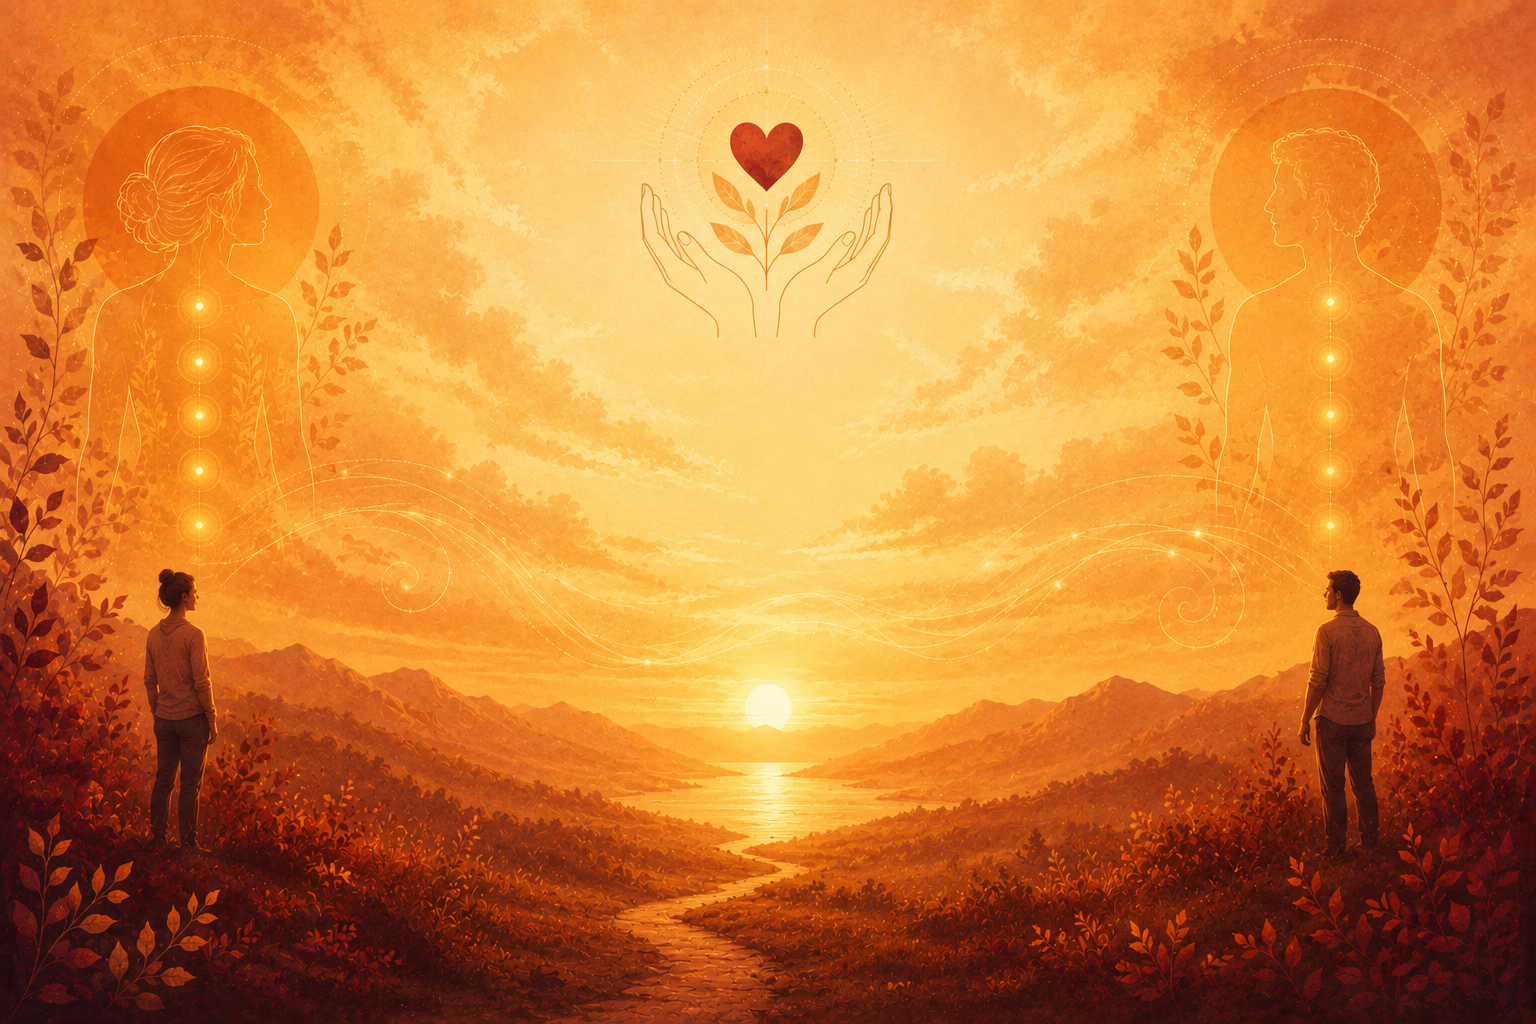
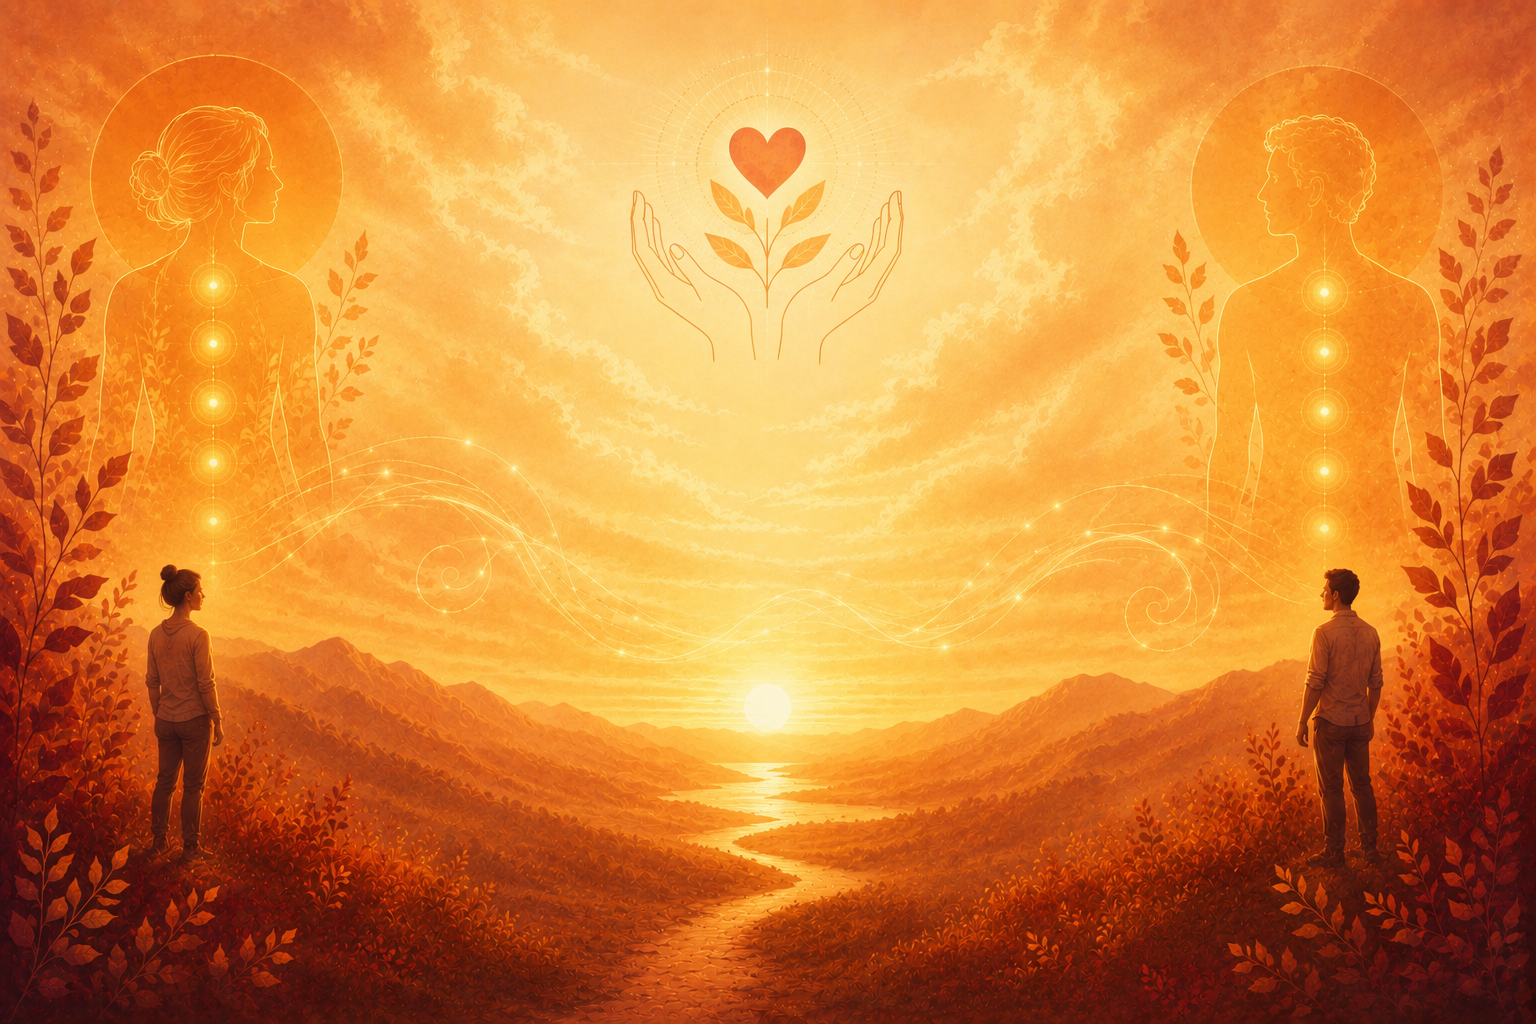
Add files via upload

diff --git a/index.html b/index.html
@@ -16,6 +16,7 @@
     --accent-hover:#b9103f;
     --accent-deep: #5a0820;
     --coral:       #c95d43;
+    --coral-light: #d4724a;
     --peach:       #f5c98a;
     --peach-light: #fde8c0;
     --text-dark:   #4a1520;
@@ -84,7 +85,6 @@
   }
   .hero-content { position: relative; z-index: 2; max-width: 920px; margin: 0 auto; }
 
-  /* "You want more" — medium size */
   .hero-title {
     font-family: var(--serif); font-weight: 700;
     font-size: clamp(2.4rem, 4.5vw, 4.2rem);
@@ -93,33 +93,31 @@
   }
   .hero-title em { font-style: italic; color: var(--accent); }
 
-  /* Desires — 3 lines, slightly smaller, accent color */
   .hero-desires {
     font-family: var(--serif); font-style: italic; font-weight: 700;
     font-size: clamp(1rem, 1.55vw, 1.35rem);
     color: var(--accent);
-    line-height: 1.65; margin-bottom: 1.2rem;
+    line-height: 1.65; margin-bottom: 1.4rem;
     max-width: 860px; margin-left: auto; margin-right: auto;
   }
 
-  /* "& you can have it all" — BIG, matches desires width */
+  /* 2 points smaller than hero-title */
   .hero-haveitall {
     font-family: var(--serif); font-weight: 700;
-    font-size: clamp(2.4rem, 4.5vw, 4.2rem);
+    font-size: clamp(2rem, 3.8vw, 3.6rem);
     color: var(--accent-deep); line-height: 1.1;
-    margin-bottom: 0.5rem;
+    margin-bottom: 0.6rem;
   }
 
-  /* "because you are an Intimacy Artist!" — single line, two colors */
+  /* 3 points bigger than before, all coral */
   .hero-artist-line {
     font-family: var(--serif); font-weight: 700;
-    font-size: clamp(1.4rem, 2.5vw, 2.2rem);
-    line-height: 1.2; margin-bottom: 0.8rem;
+    font-size: clamp(1.7rem, 3vw, 2.8rem);
+    color: var(--coral);
+    line-height: 1.2; margin-bottom: 1rem;
   }
-  .hero-artist-because { color: var(--accent-deep); font-style: italic; font-weight: 400; }
-  .hero-artist-name { color: var(--coral); }
+  .hero-artist-line em { font-style: italic; font-weight: 400; }
 
-  /* "Ready to make your life..." */
   .hero-ready {
     font-family: var(--serif); font-style: italic; font-weight: 700;
     font-size: clamp(1rem, 1.6vw, 1.3rem);
@@ -136,7 +134,7 @@
   .marilys-text h2 {
     font-family: var(--serif); font-weight: 700; font-style: italic;
     font-size: clamp(2rem, 3.5vw, 3rem);
-    color: var(--accent-deep); margin-bottom: 0.8rem;
+    color: var(--accent-deep); margin-bottom: 1.2rem;
   }
   .marilys-role-1 {
     font-family: var(--serif); font-weight: 700;
@@ -146,11 +144,11 @@
   .marilys-role-2 {
     font-family: var(--serif); font-weight: 400;
     font-size: clamp(1.1rem, 2vw, 1.45rem);
-    color: var(--accent); line-height: 1.3; margin-bottom: 1.2rem;
+    color: var(--accent); line-height: 1.3; margin-bottom: 1.5rem;
   }
   .marilys-look {
     font-family: var(--serif); font-style: italic; font-weight: 700;
-    font-size: 1.1rem; color: var(--accent-deep); margin-bottom: 1.8rem;
+    font-size: 1.15rem; color: var(--accent-deep); margin-bottom: 1.8rem;
   }
   .marilys-photo {
     flex-shrink: 0; width: 420px; height: 420px;
@@ -201,8 +199,10 @@
   }
   .approach-block p .key {
     font-family: var(--serif); font-weight: 700; font-size: 1.15rem;
-    color: var(--accent-deep);
+    color: var(--coral);
   }
+  /* bold words in approach paragraphs */
+  .approach-block p strong { color: var(--coral); font-weight: 700; }
   .approach-divider {
     border: none; border-top: 1px solid rgba(138,12,47,0.25);
     margin: 2rem auto; max-width: 500px;
@@ -224,13 +224,13 @@
   }
   .specialize ul li {
     font-family: var(--sans); font-size: 1rem;
-    color: var(--text-mid); margin-bottom: 0.5rem;
+    color: var(--coral); margin-bottom: 0.5rem;
     line-height: 1.4;
   }
-  .specialize ul li strong { color: var(--accent-deep); font-weight: 600; }
+  .specialize ul li strong { color: var(--coral); font-weight: 600; }
   .specialize-cta {
     font-family: var(--serif); font-size: clamp(1.1rem, 1.8vw, 1.4rem);
-    color: var(--text-mid); margin-bottom: 0.3rem; line-height: 1.4;
+    color: var(--text-mid); margin-bottom: 0.2rem; line-height: 1.4;
   }
   .specialize-cta-line2 {
     font-family: var(--serif); font-size: clamp(1.1rem, 1.8vw, 1.4rem);
@@ -398,11 +398,13 @@
   <div class="hero-overlay"></div>
   <div class="hero-content">
     <h1 class="hero-title">You want <em>more</em></h1>
-    <p class="hero-desires">pleasure, connection, intimacy, authenticity, playfulness, loving touch, depth, attunement, understanding, ease, sensuality, vitality, alignment, fulfillment in all relationships,... be met in your desires...</p>
-    <p class="hero-haveitall">&amp; you can have it all</p>
-    <p class="hero-artist-line">
-      <span class="hero-artist-because">because you are an </span><span class="hero-artist-name">Intimacy Artist!</span>
+    <p class="hero-desires">
+      pleasure, connection, intimacy, authenticity, playfulness, loving touch,<br>
+      depth, attunement, understanding, ease, sensuality, vitality, alignment,<br>
+      fulfillment in all relationships,... be met in your desires...
     </p>
+    <p class="hero-haveitall">&amp; you can have it all</p>
+    <p class="hero-artist-line"><em>because you are an</em> Intimacy Artist!</p>
     <p class="hero-ready">Ready to make your life &amp; intimacy the juiciest and most fun it's ever been!?</p>
     <a href="https://tidycal.com/intimacy-coaching/consultation-with-marilys" target="_blank" class="btn btn-primary">Yes !!! I already know I want to work with you !!!</a>
   </div>
@@ -436,15 +438,15 @@
     <p class="approach-line1">My approach is</p>
     <h2 class="approach-line2"><span class="colored">somatic,</span> <span class="colored">holistic</span> &amp; <span class="colored">trauma informed.</span></h2>
     <div class="approach-block">
-      <p><span class="key">Somatic</span> comes the Greek "sōmatikos" which means "of the body." A somatic approach acknowledges the upmost importance of a regulated nervous system to experience true fulfillment. It also recognizes that the body can store traumatic experiences &amp; memories which unconsciously impacts present behaviors even when it seems to go against what the conscious mind knows &amp; desires. Many issues stem from a disconnection between the mind &amp; body. As we reconnect with the wisdom &amp; natural healing power of our bodies, beautiful releases can occur, freeing the system and allowing old patterns to shift with ease. It is truly empowering to slow down to listen, rebuild trust with our body &amp; learn to regulate our nervous system. That is when magic unfolds.</p>
+      <p><span class="key">Somatic</span> comes the Greek "sōmatikos" which means "of the body." A somatic approach acknowledges the upmost importance of a <strong>regulated nervous system</strong> to experience true fulfillment. It also recognizes that the body can <strong>store traumatic experiences &amp; memories</strong> which unconsciously impacts present behaviors even when it seems to go against what the conscious mind knows &amp; desires. Many issues stem from a <strong>disconnection between the mind &amp; body.</strong> As we reconnect with the wisdom &amp; natural healing power of our bodies, <strong>beautiful releases can occur,</strong> freeing the system and allowing old patterns to shift with ease. It is truly empowering to slow down to listen, rebuild trust with our body &amp; learn to regulate our nervous system. <strong>That is when magic unfolds.</strong></p>
     </div>
     <hr class="approach-divider">
     <div class="approach-block">
-      <p><span class="key">Holistic</span> emphasize on the interconnectedness within the multidimensional aspects of our human experience. It recognizes that mindset and physical health is greatly impacted by the physical &amp; social environment one lives in by example. When a challenge is showing up in one's life, it impacts all aspects of their lives to some degree. As in holistic medicine, the focus is not on the symptom but on the whole system interactions &amp; root cause.</p>
+      <p><span class="key">Holistic</span> emphasize on the <strong>interconnectedness</strong> within the multidimensional aspects of our human experience. It recognizes that mindset and physical health is greatly impacted by the <strong>physical &amp; social environment</strong> one lives in by example. When a challenge is showing up in one's life, it impacts all aspects of their lives to some degree. As in holistic medicine, the focus is not on the symptom but on the <strong>whole system interactions &amp; root cause.</strong></p>
     </div>
     <hr class="approach-divider">
     <div class="approach-block">
-      <p><span class="key">Trauma-informed</span> because our deepest relational challenges of the present are typically connected to our most challenging experiences from earlier in life and understanding that connection is often the first step towards creating a new narrative. A trauma informed approach supports the system in releasing stuck energy in the body from a regulated nervous system, creating a greater sense of safety &amp; security within.</p>
+      <p><span class="key">Trauma-informed</span> because our deepest relational challenges of the present are typically <strong>connected to our most challenging experiences</strong> from earlier in life and understanding that connection is often the first step towards <strong>creating a new narrative.</strong> A trauma informed approach supports the system in <strong>releasing stuck energy</strong> in the body from a regulated nervous system, creating a greater sense of <strong>safety &amp; security within.</strong></p>
     </div>
   </div>
 </section>
